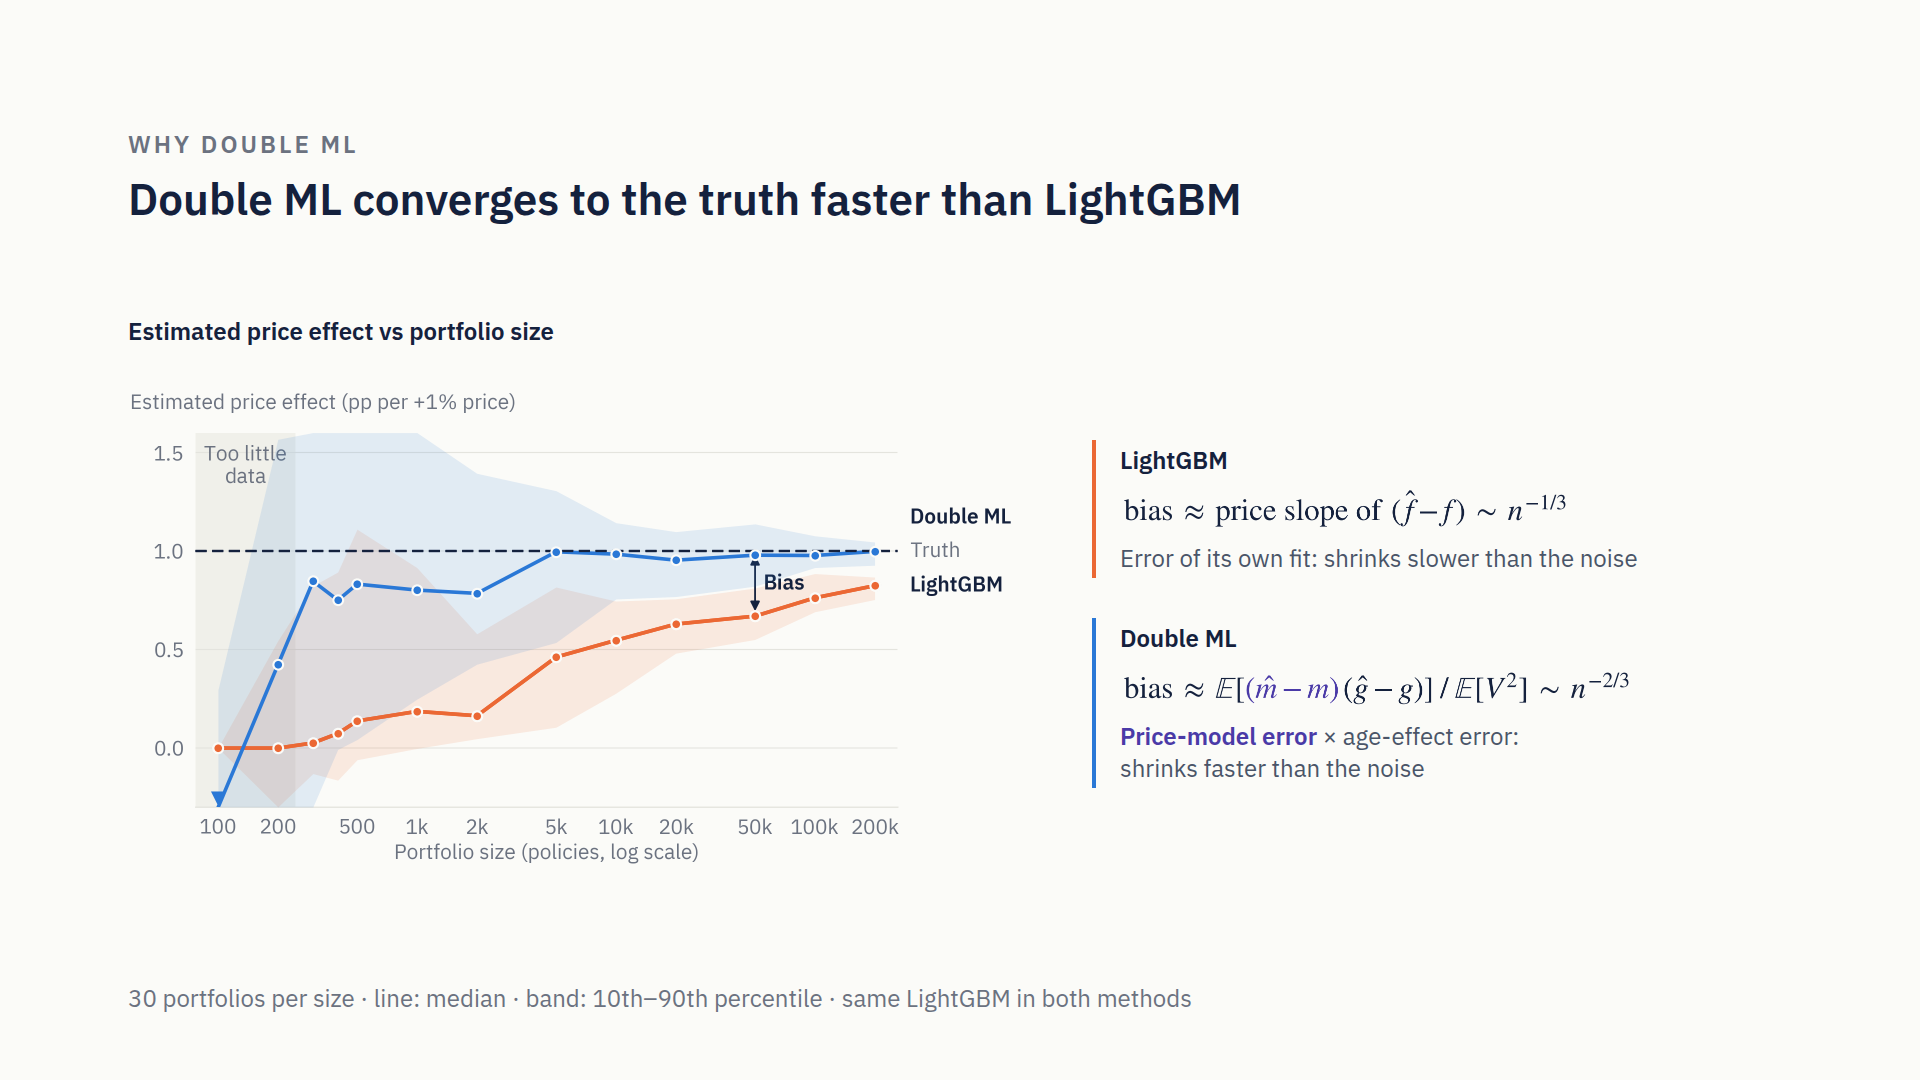
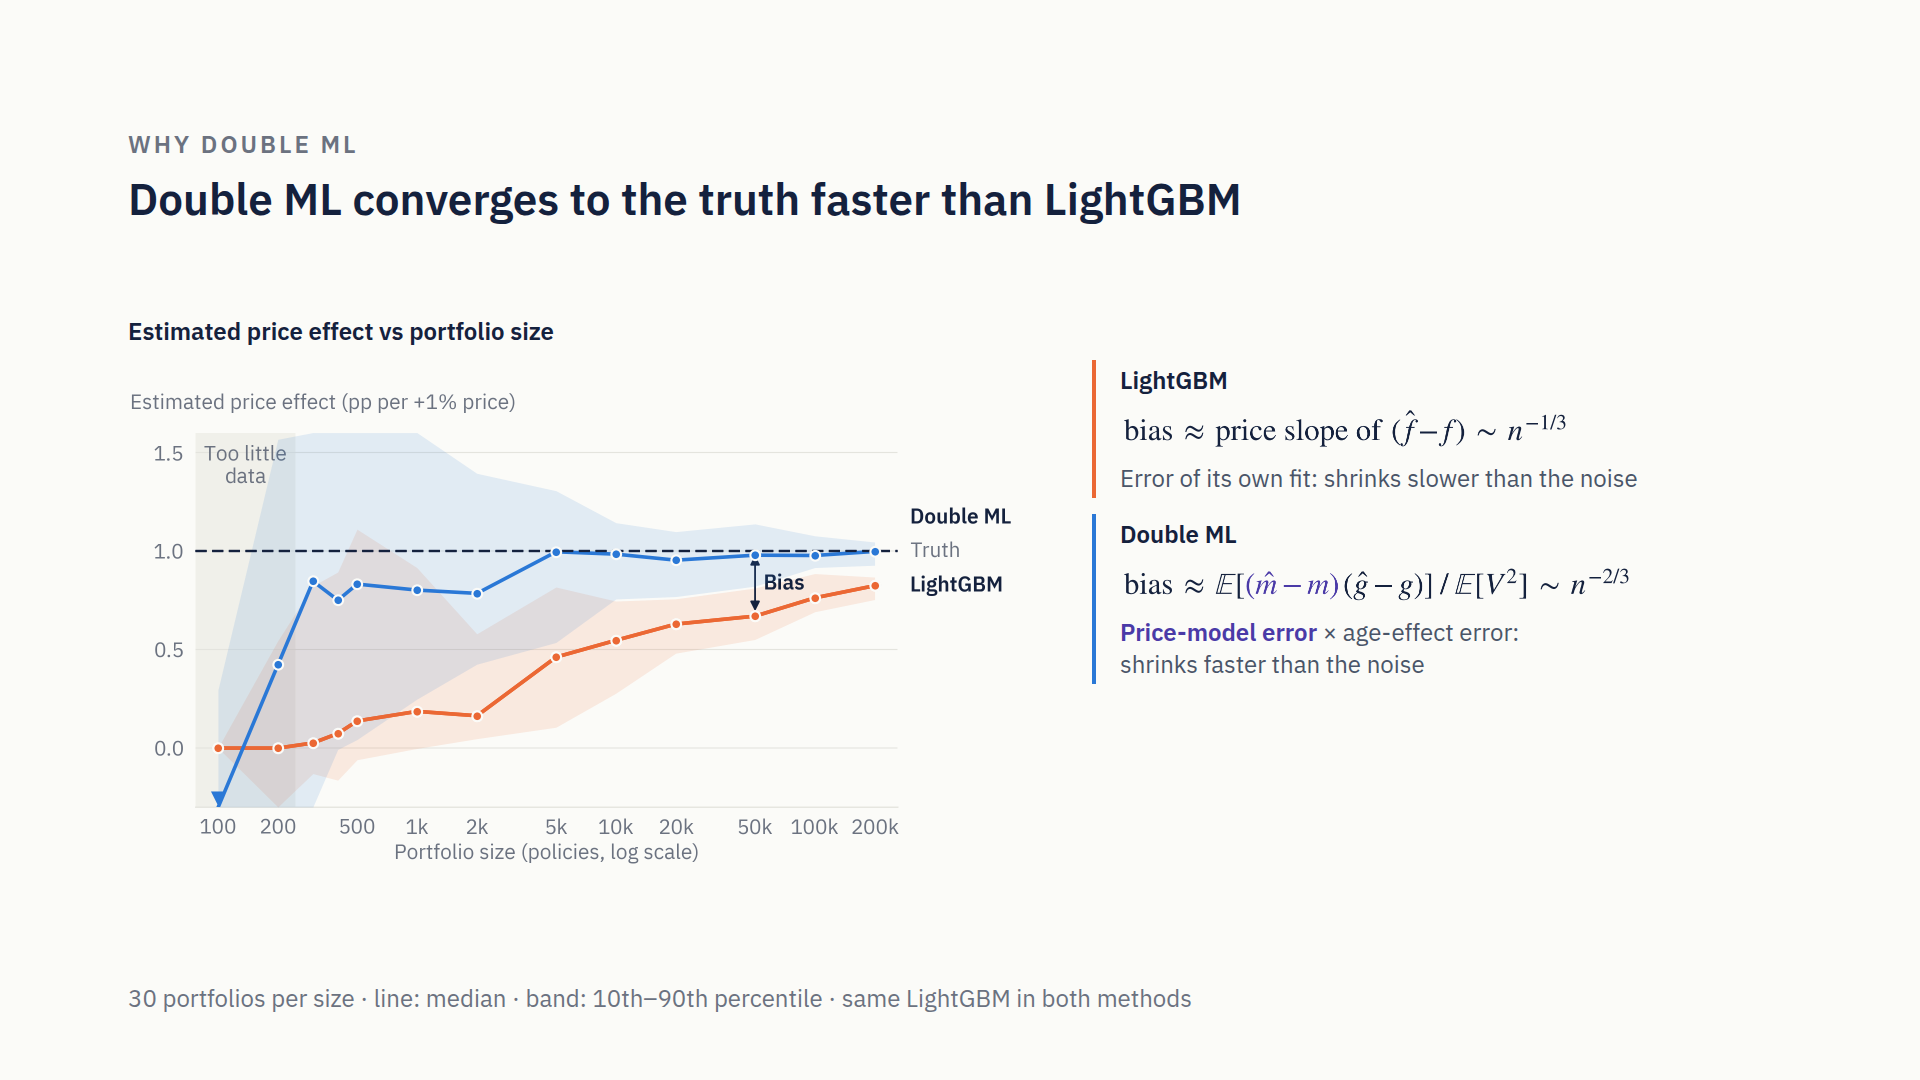
Remove takeaways slide; restore "What Double ML needs" on slide 6
The deck is part one and continues with a colleague's section, so it
does not need a closing slide. Slide 6 (with its needs box and notes),
slide 8 notes and deck.json are restored to their previous versions.

Claude-Session: https://claude.ai/code/session_01VHsu4FRFLxVyAMUASwoRCt

diff --git a/causal-pricing-deck/deck/project/slides/orthogonality.html b/causal-pricing-deck/deck/project/slides/orthogonality.html
@@ -5,7 +5,7 @@
   <img src="/_blob/f309cc1e64f44b8477e148a0280189e1" alt="Axes for the estimated price effect against portfolio size from 100 to 200,000 policies, with the true value 1.0 as a dashed line; at 100 and 200 policies too little data." style="position:absolute; left:128px; top:360px; width:900px; height:520px">
   <img data-build-in="fade 1" src="/_blob/b71233fb802225ed2d091427e7d0bdc0" alt="LightGBM's estimate approaches the truth only slowly, reaching 0.82 at 200,000 policies; the remaining gap is labelled bias." style="position:absolute; left:128px; top:360px; width:900px; height:520px">
   <img data-build-in="fade 2" src="/_blob/4a217a1475ec70ce0dd4e368392c3c10" alt="Double ML's estimate is noisy and somewhat low up to a few thousand policies, and sits on the truth from about 5,000 policies." style="position:absolute; left:128px; top:360px; width:900px; height:520px">
-  <div data-build-in="fade 3" style="position:absolute; left:1092px; top:440px; width:700px; display:flex; flex-direction:column; gap:40px">
+  <div data-build-in="fade 3" style="position:absolute; left:1092px; top:360px; width:700px; display:flex; flex-direction:column; gap:16px">
     <div style="display:flex; flex-direction:column; gap:4px; border-left:4px solid #EB6834; padding:4px 0px 4px 24px">
       <p style="font-size:24px; font-weight:600; color:#14213D">LightGBM</p>
       <img src="/_blob/586280be0b7b53925cacafb8a6e8c192" alt="bias approximately equals the price slope of f hat minus f, shrinking like n to the minus one third" style="width:452px; height:56px">
@@ -16,6 +16,14 @@
       <img src="/_blob/1d28f4fe678afc2362f4361a0f6df5b9" alt="bias approximately equals the expectation of the price-model error times the age-effect error, divided by the expectation of V squared, shrinking like n to the minus two thirds" style="width:515px; height:56px">
       <p style="font-size:24px; line-height:1.35"><span style="color:#4A3AA7; font-weight:600">Price-model error</span> × age-effect error:<br>shrinks faster than the noise</p>
     </div>
+  </div>
+  <div data-build-in="fade 4" style="position:absolute; left:1092px; top:703px; width:700px; display:flex; flex-direction:column; gap:10px; background:#F1F1EC; border-radius:12px; padding:20px 28px">
+    <p style="font-size:24px; font-weight:600; letter-spacing:2px; text-transform:uppercase; color:#6B7280">What Double ML needs</p>
+    <ol style="font-size:24px; line-height:1.35; color:#14213D">
+      <li>No hidden drivers of both price and lapse</li>
+      <li>Free price variation: discounts, loadings, tests</li>
+      <li>A response shape, assumed beyond the data</li>
+    </ol>
   </div>
   <p style="position:absolute; left:128px; bottom:64px; width:1480px; font-size:24px; color:#6B7280">30 portfolios per size · line: median · band: 10th–90th percentile · same LightGBM in both methods</p>
   <aside>Message: the answer to "why?". Same learner, same tuning; only the way the price effect is extracted differs.
@@ -44,6 +52,10 @@ Builds
   - LightGBM: one error ≈ n^(−1/3), falls behind its spread. Double ML: product ≈ n^(−2/3), faster than the noise.
   - Measured: LightGBM ≈ n^(−0.3); Double ML product term −0.13 (2k), −0.09 (5k), −0.03 (20k), −0.009 (50k), −0.003 (200k) ≈ n^(−0.8).
   - Formal need: product faster than n^(−1/2), e.g. each error faster than n^(−1/4).
+- Click 4, what Double ML needs:
+  - All drivers of price and lapse in the model (violation: agents discount customers who threaten to leave).
+  - Free price variation in every segment: discounts, loadings, A/B tests, tariff changes. Less of it → more data needed (E[V²]).
+  - A response shape beyond the data, testable only inside it (e.g. T² via econml's treatment_featurizer).
 
-Bridge: "What Double ML needs" is on the closing slide.</aside>
+Takeaway: prediction models to predict; causal estimators, with explicit assumptions, to decide.</aside>
 </section>

diff --git a/causal-pricing-deck/deck/project/slides/final-stage.html b/causal-pricing-deck/deck/project/slides/final-stage.html
@@ -75,5 +75,7 @@ Builds
 
 Footer
 - Best of the three in our project. Part of the gain is likely honesty itself, not only flexibility.
-- "What Double ML needs" still holds for all three.</aside>
+- "What Double ML needs" still holds for all three.
+
+Takeaway of the deck: prediction models to predict; causal estimators, with explicit assumptions, to decide.</aside>
 </section>

diff --git a/causal-pricing-deck/README.md b/causal-pricing-deck/README.md
@@ -1,10 +1,10 @@
 # Causal pricing deck: LightGBM vs Double ML
 
-A 9-slide deck on causal ML in insurance pricing. It uses a toy renewal/lapse portfolio with a known truth.
+An 8-slide deck on causal ML in insurance pricing. It uses a toy renewal/lapse portfolio with a known truth.
 
 Live deck (Claude Slides artifact, private): https://claude.ai/artifact/TakwyxEBZxjuxXRuNt7iBw
 
-Story: the question → confounding (age) → extrapolation (LightGBM with price as a feature freezes) → how Double ML works → pricing decision → why Double ML is better (convergence) → our setup: LightGBM first stage, then the final-stage options and why the causal forest → takeaways and what Double ML needs.
+Story: the question → confounding (age) → extrapolation (LightGBM with price as a feature freezes) → how Double ML works → pricing decision → why Double ML is better (convergence) → our setup: LightGBM first stage, then the final-stage options and why the causal forest.
 
 ## Toy world (`cont.py`)
 
